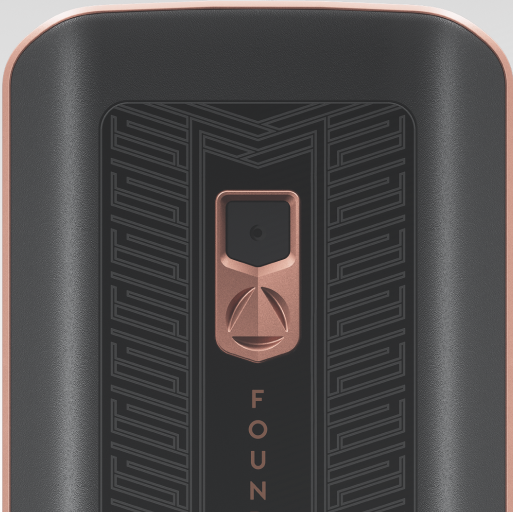
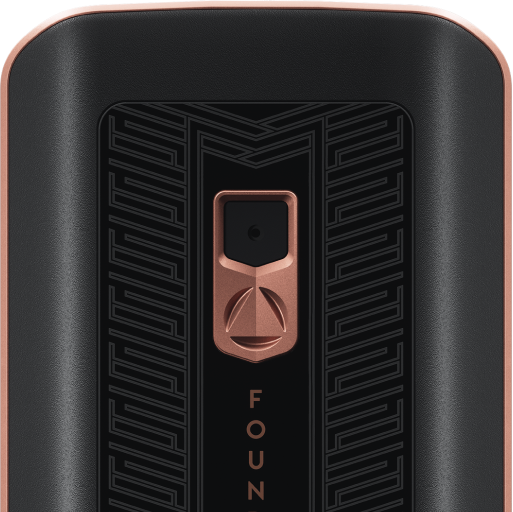
display correct color asset for Prime

diff --git a/lib/ui/home/cards/devices/device_list_tile.dart b/lib/ui/home/cards/devices/device_list_tile.dart
@@ -119,7 +119,7 @@ class _DeviceListTileState extends ConsumerState<DeviceListTile> {
                             child: Padding(
                               padding: const EdgeInsets.only(top: 20.0),
                               child: Image.asset(
-                                getProductImage(widget.device.type),
+                                getProductImage(widget.device),
                                 height: 200,
                               ),
                             ),
@@ -294,14 +294,19 @@ class _DeviceListTileState extends ConsumerState<DeviceListTile> {
     );
   }
 
-  String getProductImage(DeviceType type) {
-    switch (type) {
+  String getProductImage(Device device) {
+    switch (device.type) {
       case DeviceType.passportGen1:
         return "assets/passport1.png";
       case DeviceType.passportGen12:
         return "assets/passport12.png";
       case DeviceType.passportPrime:
-        return "assets/prime_device_tile.png";
+        switch (device.deviceColor) {
+          case DeviceColor.light:
+            return "assets/prime_device_tile.png";
+          case DeviceColor.dark:
+            return "assets/prime_device_tile_dark.png";
+        }
     }
   }
 }
